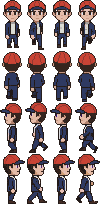
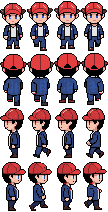
fix(web-public): regenerate walk sheets in Pokemon Gen 2 chibi style
Previous PixelLab characters came out realistic-proportioned and
clashed with the mockup art style. Regenerated all three leads with
the style locked in: GBC overworld description anchor + custom
proportions (head 1.9, limbs 0.6, shoulders/hips 1.15) + flat
shading + low detail. Sheet cells grow to the chunkier bbox, so
MOVABLE_SPRITES w/h updated.

diff --git a/web-public/src/canvas/assets.ts b/web-public/src/canvas/assets.ts
@@ -29,9 +29,9 @@ export interface SpriteMeta {
 }
 
 export const MOVABLE_SPRITES: Partial<Record<CharacterId, SpriteMeta>> = {
-  proposer: { url: '/office/sheet_proposer.png', w: 23, h: 51, dx: 0, dy: 0 },
-  decider: { url: '/office/sheet_decider.png', w: 25, h: 51, dx: 0, dy: 0 },
-  trader: { url: '/office/sheet_trader.png', w: 22, h: 51, dx: 0, dy: 0 },
+  proposer: { url: '/office/sheet_proposer.png', w: 31, h: 53, dx: 0, dy: 0 },
+  decider: { url: '/office/sheet_decider.png', w: 27, h: 53, dx: 0, dy: 0 },
+  trader: { url: '/office/sheet_trader.png', w: 29, h: 53, dx: 0, dy: 0 },
 }
 
 export const FACING_ROW = { down: 0, up: 1, left: 2, right: 3 } as const

diff --git a/web-public/scripts/fetch_pixellab_sheets.py b/web-public/scripts/fetch_pixellab_sheets.py
@@ -12,7 +12,8 @@ PIXELLAB_API_KEY env var). Zip layout:
 
     <Name>/animations/animating/<south|north|west|east>/frame_00N.png
 
-Characters generated 2026-06-11 (walking-4-frames template, 68x68 canvas).
+Characters generated 2026-06-11 in Pokemon Gen 2 overworld style
+(48px, custom chibi proportions, walking-4-frames template, 68x68 canvas).
 Re-running is idempotent.
 
 Usage (from repo root):
@@ -37,9 +38,9 @@ ROW_ORDER = ["down", "up", "left", "right"]  # must match FACING_ROW in assets.t
 DIR_NAME = {"down": "south", "up": "north", "left": "west", "right": "east"}
 
 CHAR_IDS: dict[str, str] = {
-    "proposer": "c5ede9c7-4e2d-454f-abd5-aa7f296b4864",
-    "decider": "27bd26f0-d279-477f-b9e9-2de69ea2635a",
-    "trader": "b55434a5-0f35-4cdd-833c-0c430face2fa",
+    "proposer": "de7aaa2d-fb14-4fed-83c0-034024cc03c4",
+    "decider": "69ae4c53-b940-4826-a699-95ae3f4c1bcb",
+    "trader": "f16182ec-094f-4bd2-8e6e-2ca42f0b9fa8",
 }
 
 
